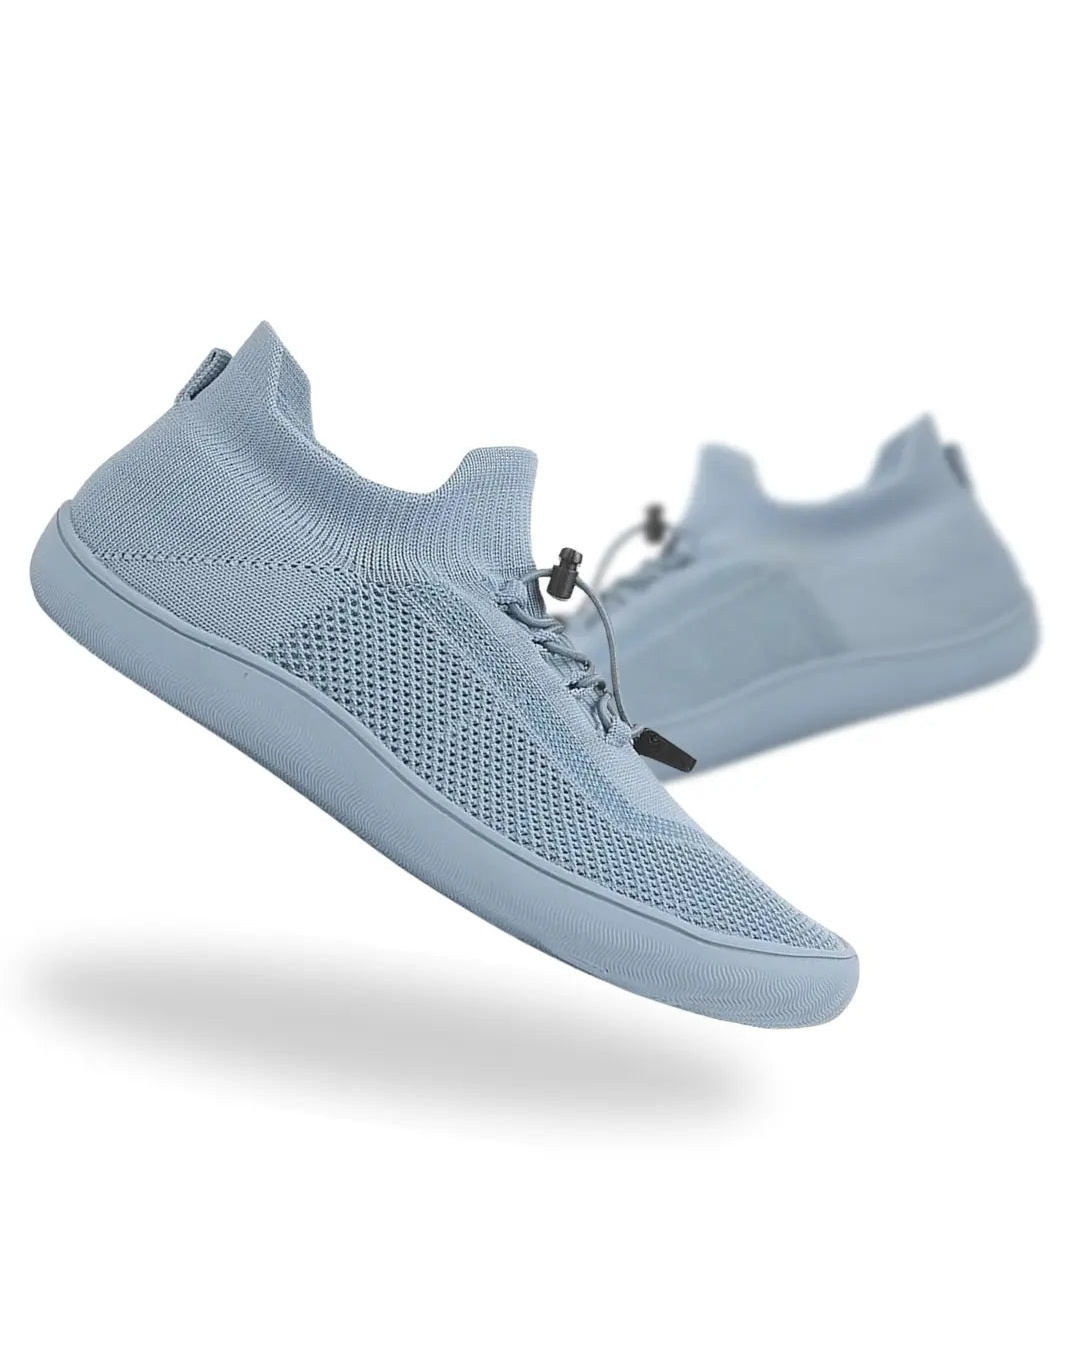
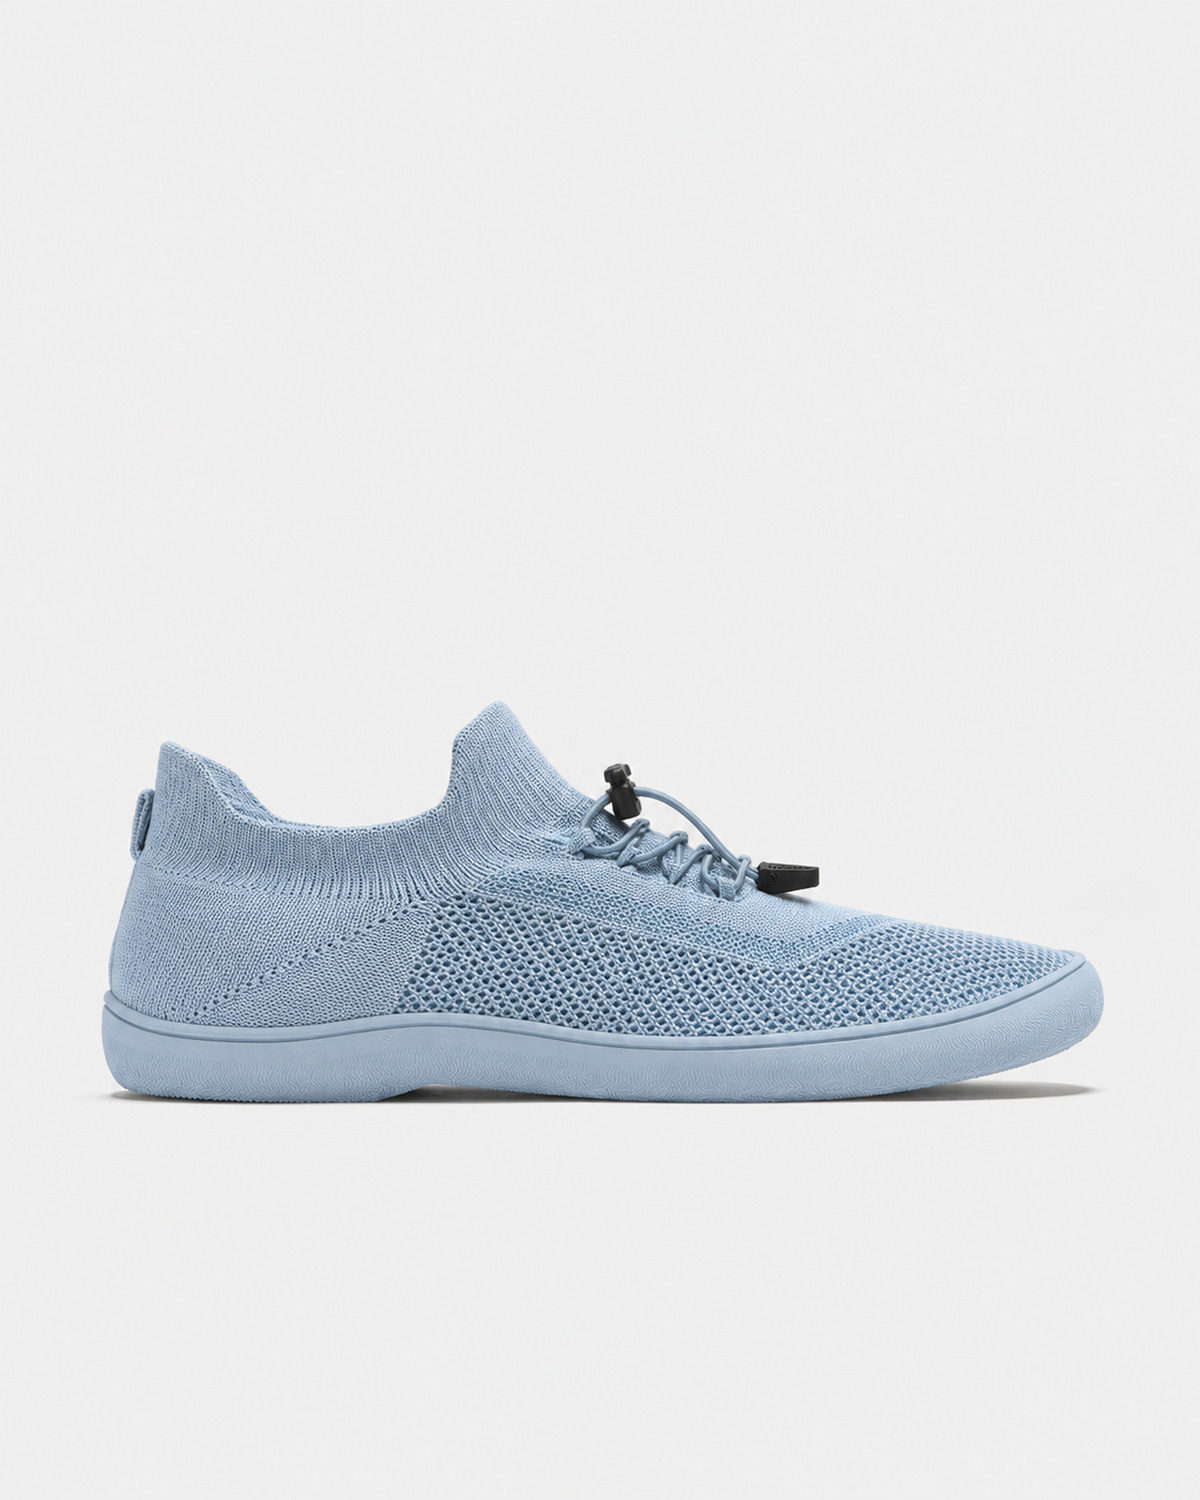
feat(roamers-ice-blue): deploy 14-asset 4:5 master studio & lifestyle gallery aligned to ETQ sequence across UK, US, AU

diff --git a/apps/au/src/data/products.ts b/apps/au/src/data/products.ts
@@ -671,14 +671,22 @@ export const PRODUCTS: BarefootProduct[] = [
     compareAtPrice: 179,
     currencySymbol: "A$",
     primaryImage: "/media/products/roamers-ice-blue/buudy-barefoot-shoes-roamers-ice-blue-wide-toe-box-hero.jpg",
-    secondaryImage: "/media/products/roamers-ice-blue/buudy-barefoot-shoes-roamers-ice-blue-side-profile.jpg",
+    secondaryImage: "/media/products/roamers-ice-blue/buudy-barefoot-shoes-roamers-ice-blue-wet-beach-rock-pair.jpg",
     galleryImages: [
       "/media/products/roamers-ice-blue/buudy-barefoot-shoes-roamers-ice-blue-wide-toe-box-hero.jpg",
-      "/media/products/roamers-ice-blue/buudy-barefoot-shoes-roamers-ice-blue-side-profile.jpg",
-      "/media/products/roamers-ice-blue/buudy-barefoot-shoes-roamers-ice-blue-angle-perspective.jpg",
-      "/media/products/roamers-ice-blue/buudy-barefoot-shoes-roamers-ice-blue-top-down-view.jpg",
-      "/media/products/roamers-ice-blue/buudy-barefoot-shoes-roamers-ice-blue-detail-upper.jpg",
-      "/media/products/roamers-ice-blue/buudy-barefoot-shoes-roamers-ice-blue-outsole-tread.jpg",
+      "/media/products/roamers-ice-blue/buudy-barefoot-shoes-roamers-ice-blue-wet-beach-rock-pair.jpg",
+      "/media/products/roamers-ice-blue/buudy-barefoot-shoes-roamers-ice-blue-model-sitting-steps-lifestyle.jpg",
+      "/media/products/roamers-ice-blue/buudy-barefoot-shoes-roamers-ice-blue-sand-dune-nature-pair.jpg",
+      "/media/products/roamers-ice-blue/buudy-barefoot-shoes-roamers-ice-blue-on-foot-seated-steps.jpg",
+      "/media/products/roamers-ice-blue/buudy-barefoot-shoes-roamers-ice-blue-on-foot-stone-floor-view.jpg",
+      "/media/products/roamers-ice-blue/buudy-barefoot-shoes-roamers-ice-blue-model-standing-lifestyle.jpg",
+      "/media/products/roamers-ice-blue/buudy-barefoot-shoes-roamers-ice-blue-on-foot-action-stride.jpg",
+      "/media/products/roamers-ice-blue/buudy-barefoot-shoes-roamers-ice-blue-on-foot-standing-pair.jpg",
+      "/media/products/roamers-ice-blue/buudy-barefoot-shoes-roamers-ice-blue-on-foot-rear-heel-view.jpg",
+      "/media/products/roamers-ice-blue/buudy-barefoot-shoes-roamers-ice-blue-top-down-anatomical-view.jpg",
+      "/media/products/roamers-ice-blue/buudy-barefoot-shoes-roamers-ice-blue-studio-editorial-pair.jpg",
+      "/media/products/roamers-ice-blue/buudy-barefoot-shoes-roamers-ice-blue-single-shoe-overhead-angle.jpg",
+      "/media/products/roamers-ice-blue/buudy-barefoot-shoes-roamers-ice-blue-outsole-tread-grip.jpg",
     ],
     badge: "New In",
     badgeType: "dark",

diff --git a/apps/uk/src/data/products.ts b/apps/uk/src/data/products.ts
@@ -691,14 +691,22 @@ export const PRODUCTS: BarefootProduct[] = [
     compareAtPrice: 99,
     currencySymbol: "£",
     primaryImage: "/media/products/roamers-ice-blue/buudy-barefoot-shoes-roamers-ice-blue-wide-toe-box-hero.jpg",
-    secondaryImage: "/media/products/roamers-ice-blue/buudy-barefoot-shoes-roamers-ice-blue-side-profile.jpg",
+    secondaryImage: "/media/products/roamers-ice-blue/buudy-barefoot-shoes-roamers-ice-blue-wet-beach-rock-pair.jpg",
     galleryImages: [
       "/media/products/roamers-ice-blue/buudy-barefoot-shoes-roamers-ice-blue-wide-toe-box-hero.jpg",
-      "/media/products/roamers-ice-blue/buudy-barefoot-shoes-roamers-ice-blue-side-profile.jpg",
-      "/media/products/roamers-ice-blue/buudy-barefoot-shoes-roamers-ice-blue-angle-perspective.jpg",
-      "/media/products/roamers-ice-blue/buudy-barefoot-shoes-roamers-ice-blue-top-down-view.jpg",
-      "/media/products/roamers-ice-blue/buudy-barefoot-shoes-roamers-ice-blue-detail-upper.jpg",
-      "/media/products/roamers-ice-blue/buudy-barefoot-shoes-roamers-ice-blue-outsole-tread.jpg",
+      "/media/products/roamers-ice-blue/buudy-barefoot-shoes-roamers-ice-blue-wet-beach-rock-pair.jpg",
+      "/media/products/roamers-ice-blue/buudy-barefoot-shoes-roamers-ice-blue-model-sitting-steps-lifestyle.jpg",
+      "/media/products/roamers-ice-blue/buudy-barefoot-shoes-roamers-ice-blue-sand-dune-nature-pair.jpg",
+      "/media/products/roamers-ice-blue/buudy-barefoot-shoes-roamers-ice-blue-on-foot-seated-steps.jpg",
+      "/media/products/roamers-ice-blue/buudy-barefoot-shoes-roamers-ice-blue-on-foot-stone-floor-view.jpg",
+      "/media/products/roamers-ice-blue/buudy-barefoot-shoes-roamers-ice-blue-model-standing-lifestyle.jpg",
+      "/media/products/roamers-ice-blue/buudy-barefoot-shoes-roamers-ice-blue-on-foot-action-stride.jpg",
+      "/media/products/roamers-ice-blue/buudy-barefoot-shoes-roamers-ice-blue-on-foot-standing-pair.jpg",
+      "/media/products/roamers-ice-blue/buudy-barefoot-shoes-roamers-ice-blue-on-foot-rear-heel-view.jpg",
+      "/media/products/roamers-ice-blue/buudy-barefoot-shoes-roamers-ice-blue-top-down-anatomical-view.jpg",
+      "/media/products/roamers-ice-blue/buudy-barefoot-shoes-roamers-ice-blue-studio-editorial-pair.jpg",
+      "/media/products/roamers-ice-blue/buudy-barefoot-shoes-roamers-ice-blue-single-shoe-overhead-angle.jpg",
+      "/media/products/roamers-ice-blue/buudy-barefoot-shoes-roamers-ice-blue-outsole-tread-grip.jpg",
     ],
     badge: "New In",
     badgeType: "dark",

diff --git a/apps/us/src/data/products.ts b/apps/us/src/data/products.ts
@@ -671,14 +671,22 @@ export const PRODUCTS: BarefootProduct[] = [
     compareAtPrice: 119,
     currencySymbol: "$",
     primaryImage: "/media/products/roamers-ice-blue/buudy-barefoot-shoes-roamers-ice-blue-wide-toe-box-hero.jpg",
-    secondaryImage: "/media/products/roamers-ice-blue/buudy-barefoot-shoes-roamers-ice-blue-side-profile.jpg",
+    secondaryImage: "/media/products/roamers-ice-blue/buudy-barefoot-shoes-roamers-ice-blue-wet-beach-rock-pair.jpg",
     galleryImages: [
       "/media/products/roamers-ice-blue/buudy-barefoot-shoes-roamers-ice-blue-wide-toe-box-hero.jpg",
-      "/media/products/roamers-ice-blue/buudy-barefoot-shoes-roamers-ice-blue-side-profile.jpg",
-      "/media/products/roamers-ice-blue/buudy-barefoot-shoes-roamers-ice-blue-angle-perspective.jpg",
-      "/media/products/roamers-ice-blue/buudy-barefoot-shoes-roamers-ice-blue-top-down-view.jpg",
-      "/media/products/roamers-ice-blue/buudy-barefoot-shoes-roamers-ice-blue-detail-upper.jpg",
-      "/media/products/roamers-ice-blue/buudy-barefoot-shoes-roamers-ice-blue-outsole-tread.jpg",
+      "/media/products/roamers-ice-blue/buudy-barefoot-shoes-roamers-ice-blue-wet-beach-rock-pair.jpg",
+      "/media/products/roamers-ice-blue/buudy-barefoot-shoes-roamers-ice-blue-model-sitting-steps-lifestyle.jpg",
+      "/media/products/roamers-ice-blue/buudy-barefoot-shoes-roamers-ice-blue-sand-dune-nature-pair.jpg",
+      "/media/products/roamers-ice-blue/buudy-barefoot-shoes-roamers-ice-blue-on-foot-seated-steps.jpg",
+      "/media/products/roamers-ice-blue/buudy-barefoot-shoes-roamers-ice-blue-on-foot-stone-floor-view.jpg",
+      "/media/products/roamers-ice-blue/buudy-barefoot-shoes-roamers-ice-blue-model-standing-lifestyle.jpg",
+      "/media/products/roamers-ice-blue/buudy-barefoot-shoes-roamers-ice-blue-on-foot-action-stride.jpg",
+      "/media/products/roamers-ice-blue/buudy-barefoot-shoes-roamers-ice-blue-on-foot-standing-pair.jpg",
+      "/media/products/roamers-ice-blue/buudy-barefoot-shoes-roamers-ice-blue-on-foot-rear-heel-view.jpg",
+      "/media/products/roamers-ice-blue/buudy-barefoot-shoes-roamers-ice-blue-top-down-anatomical-view.jpg",
+      "/media/products/roamers-ice-blue/buudy-barefoot-shoes-roamers-ice-blue-studio-editorial-pair.jpg",
+      "/media/products/roamers-ice-blue/buudy-barefoot-shoes-roamers-ice-blue-single-shoe-overhead-angle.jpg",
+      "/media/products/roamers-ice-blue/buudy-barefoot-shoes-roamers-ice-blue-outsole-tread-grip.jpg",
     ],
     badge: "New In",
     badgeType: "dark",
